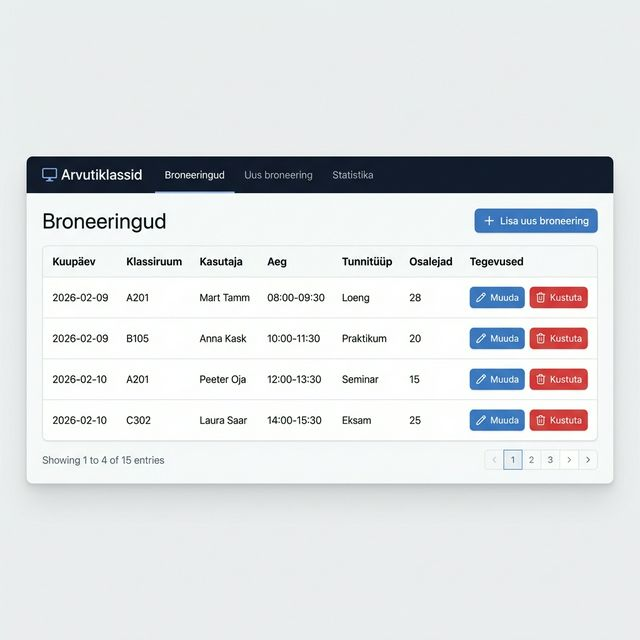
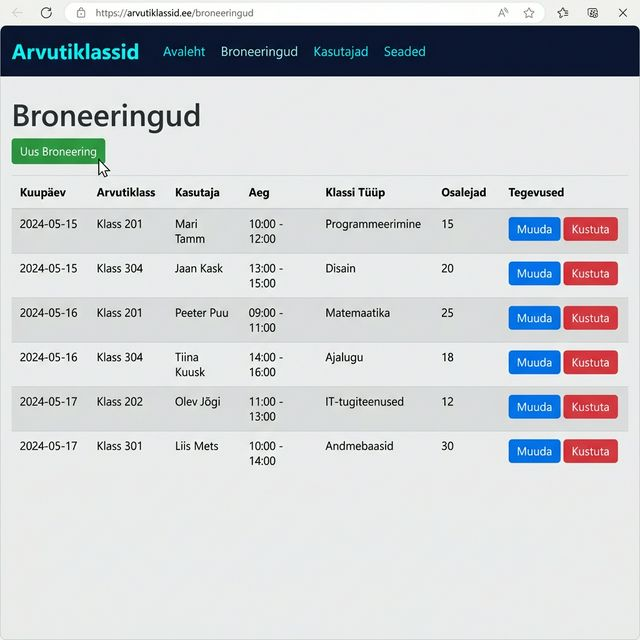
Asenda ekraanipildid päris rakenduse screenshotidega (3 vaadet)

diff --git a/README.md b/README.md
@@ -52,6 +52,9 @@ Ava brauseris: **http://localhost:3000**
 ### Broneeringute loend
 ![Broneeringute loend](screenshots/bookings_list.png)
 
+### Uue broneeringu lisamine
+![Uus broneering](screenshots/uus_broneering.png)
+
 ### Statistikavaade
 ![Statistika](screenshots/statistics.png)
 
